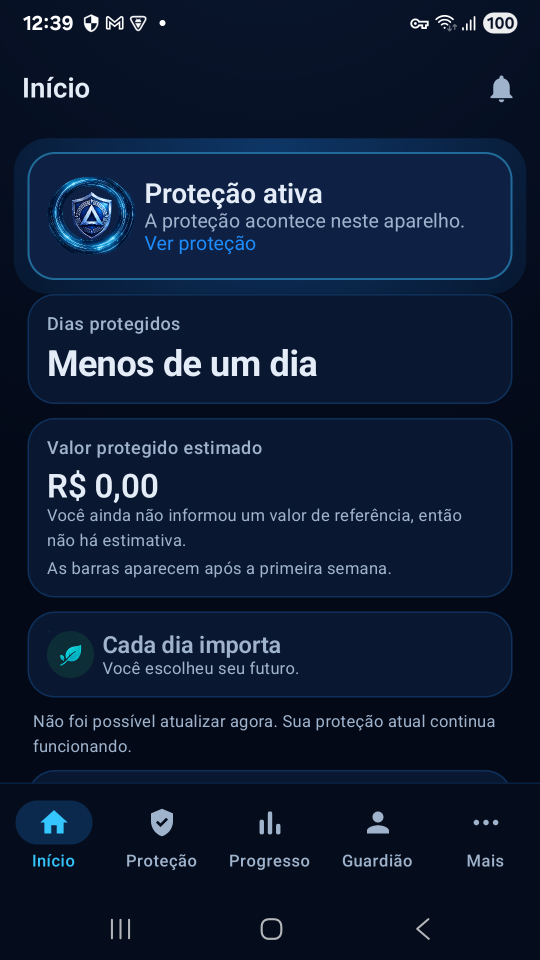
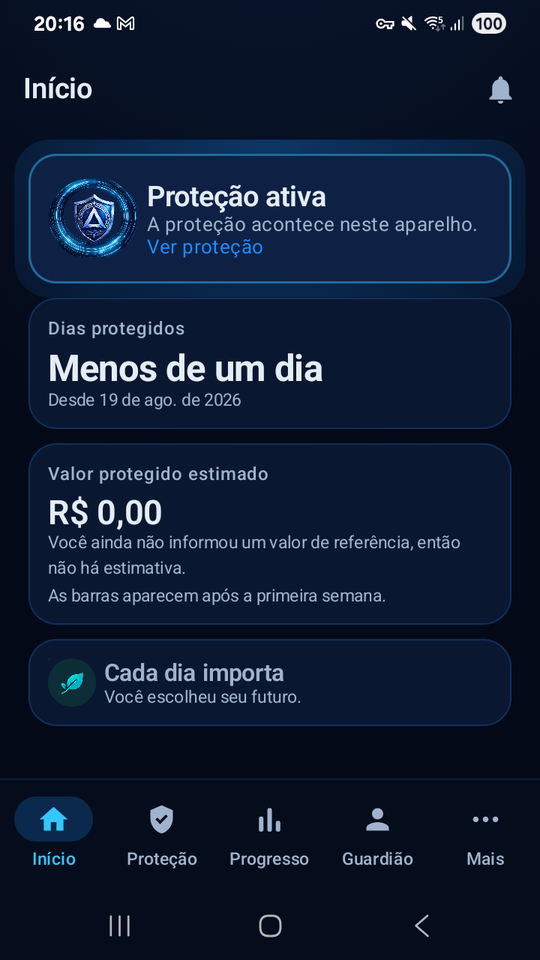
site: a home apresenta a empresa, e a captura do Aegis mostra proteção ativa
Duas mudanças pequenas, uma em cada página.

1. A home perde o "Baixar na Google Play". Ali se apresenta a Shield Labs, e o
   botão ficava solto: não fica explícito que é para baixar o Aegis, e nem
   deveria — a página do produto existe para isso, e o botão da loja continua lá,
   junto do selo e do installUrl do JSON-LD.

   O botão removido era o primário. Deixar o "Conheça o Aegis" como secundário
   tiraria a hierarquia do hero, então ele sobe a primário — que é exatamente o
   que a seção do produto, logo abaixo, já faz com o mesmo texto.

2. A primeira captura da página do Aegis mostrava a linha "Não foi possível
   atualizar agora. Sua proteção atual continua funcionando." A frase é
   verdadeira e está na ficha aprovada, mas numa página de venda a primeira coisa
   que a pessoa lê passa a ser "não foi possível".

   A nova foi tirada hoje num Samsung SM-A055M com plano ativo e proteção
   ligada, e não tem a linha. Mesmo enquadramento da anterior: barra de status,
   cabeçalho, "Proteção ativa", dias protegidos, valor protegido, "Cada dia
   importa", e a barra de navegação.

   O aparelho é 720x1600 e o `.phone` do site é `aspect-ratio: 9/16` com
   `object-fit: cover`, então uma imagem 9:20 seria cortada pelo navegador no
   topo e embaixo — perdendo justamente a barra de status e a de navegação, que
   são o que faz a moldura parecer um telefone. Por isso a captura foi composta
   para 9:16 em vez de reescalada: topo até o fim do cartão "Cada dia importa",
[…]

diff --git a/index.html b/index.html
@@ -99,8 +99,7 @@
             <h1 class="statement">Não criamos apenas aplicativos. Criamos proteção para os momentos em que resistir sozinho não é suficiente.</h1>
             <p class="lead">A Shield Labs desenvolve tecnologias de proteção que funcionam diretamente no aparelho do usuário, com privacidade, transparência e controle local.</p>
             <div class="hero-actions">
-              <a class="btn btn-primary" href="https://play.google.com/store/apps/details?id=com.shieldlabs.aegis">Baixar na Google Play</a>
-              <a class="btn btn-secondary" href="aegis/">Conheça o Aegis</a>
+              <a class="btn btn-primary" href="aegis/">Conheça o Aegis</a>
               <a class="btn btn-secondary" href="#principios">Nossos princípios</a>
             </div>
           </div>
